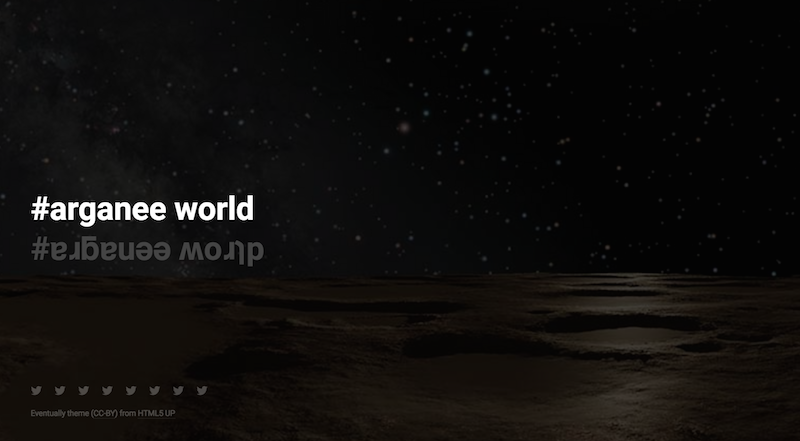
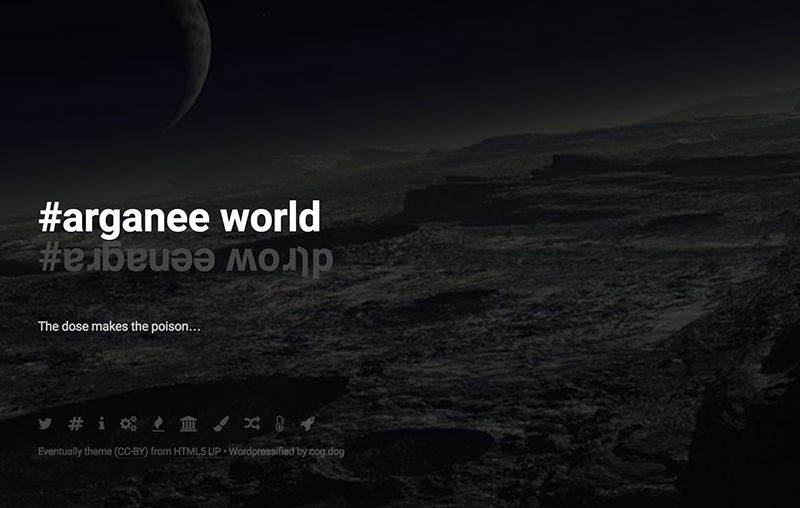
Readme written

diff --git a/README.md b/README.md
@@ -1,2 +1,10 @@
-# arganee
-A Wordpress Theme Hacked out of an HTML5 one for http://arganee.world
+# Arganee Wordpress Theme
+
+A Wordpress theme hacked out of the [HTML5up Eventually Theme](http://html5up.net/) used for http://arganee.world
+
+![](screenshot.png "Theme Screenshot")
+
+
+This was done following [envato tuts+ Creating a WordPress Theme From Static HTML: Preparing the Markup](https://code.tutsplus.com/tutorials/creating-a-wordpress-theme-from-static-html-preparing-the-markup--wp-33895) The dynamic content is generated from the titles of "posts" using the Wordpress API to load via JavaScript (thanks to a hand from [Tom Woodward](http://bionicteaching.com/).
+
+
